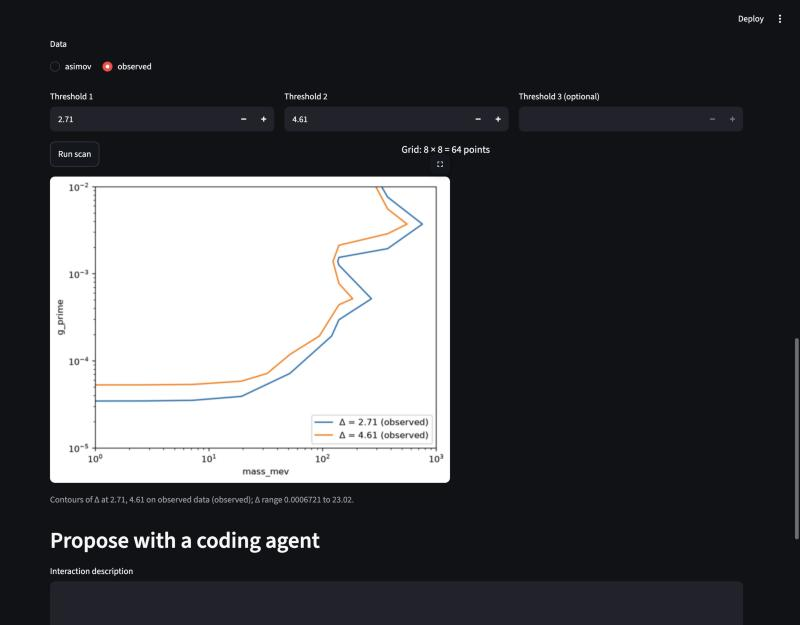
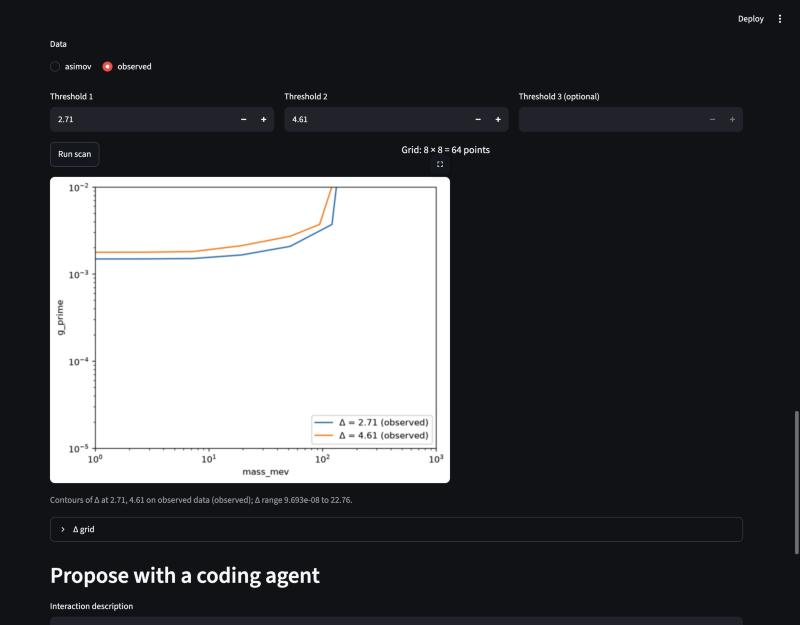
Refresh M6 evidence after review repairs
The zprime_lmu_ltau preset now uses the loop kinetic mixing, so the
spectrum, card-preset and both scan screenshots are retaken and the Δ
values restated: Δ = 0.00243 for the preset (7.5076 was for a fixed
kinetic_mixing of 1e-3), with the 10 MeV Asimov Δ = 2.71 crossing near
g' = 2e-3. The launcher section records the os.execv command line, the
non-interactive listener check on 127.0.0.1:8604 and the clean SIGINT
exit, and the test section lists the new page tests.

diff --git a/docs/evidence/issue-18/README.md b/docs/evidence/issue-18/README.md
@@ -1,89 +1,90 @@
 # M6 Streamlit page and packaging
 
-All checks below ran on 2026-10-17 against commit
-`efed7e8d1fca3d5767c68d33e858b9c66683a8e3` (tree
-`5d13430a87060ef01cbeea8408046b3621ace18c`) on branch `m6-ui`, with
-Streamlit 1.66.0. The screenshots are the built-in browser's captures of the
-live page at http://127.0.0.1:8501 (1280 x 1000 viewport, downscaled by the
-capture tool and converted from JPEG to PNG).
+The current evidence was recorded on 2026-10-17 against commit
+`590b779f1b48628c0164dbbecee4b1314182d2e1` (tree
+`e4a80a70a58a8c7f9f0ed41278c425b14cdd0f5f`) on branch `m6-ui`, with
+Streamlit 1.66.0. That commit applies the code review pass 1 repairs. The
+screenshots are the built-in browser's captures of the live page at
+http://127.0.0.1:8501 (1280 x 1000 viewport, downscaled by the capture tool
+and converted from JPEG to PNG). The panel checks used a headless server
+(`STREAMLIT_SERVER_HEADLESS=true uv run nuagent ui`), so that no browser
+tab opened on the desktop.
 
 ## Launcher
 
-`uv run nuagent ui` ran this child process, read from `ps`:
-
-```text
-.venv/bin/python -m streamlit run .../src/nuagent/ui/app.py --server.address 127.0.0.1 --browser.gatherUsageStats false --server.port 8501
-```
-
-`lsof -iTCP:8501 -sTCP:LISTEN` showed one listener, `TCP 127.0.0.1:8501`, and
-Streamlit logged `Uvicorn server started on 127.0.0.1:8501`. Stopping the
-Streamlit process with SIGTERM let `nuagent ui` exit 0.
-
-On this machine Streamlit had never run before (no `~/.streamlit/`). With
-stdin not attached to a terminal, Streamlit's first-run onboarding prompt
-("enter your email address") read end-of-file and Streamlit exited with
-status 255, so `nuagent ui` raised `CalledProcessError`. The panel checks
-below therefore ran `STREAMLIT_SERVER_HEADLESS=true uv run nuagent ui`.
-
-The follow-up commit "Skip Streamlit's first-run email prompt in nuagent ui"
-(on top of the evidence commit `8c4f46f`) adds `--server.showEmailPrompt false`.
-In Streamlit 1.66.0, `check_credentials` in `streamlit/runtime/credentials.py`
-skips the prompt when `server.headless` is true or `server.showEmailPrompt`
-is false, so the page no longer needs headless mode and Streamlit keeps its
-automatic browser opening. The final launcher command line is:
+`nuagent ui [--port N]` replaces its own process with Streamlit
+(`os.execv`), running:
 
 ```text
 python -m streamlit run <installed nuagent/ui/app.py> --server.address 127.0.0.1 --browser.gatherUsageStats false --server.showEmailPrompt false --server.port <port>
 ```
 
-Check at that commit, still without `~/.streamlit/` and without
-`STREAMLIT_SERVER_HEADLESS`: `uv run nuagent ui --port 8503 </dev/null` started,
-`ps` showed the command line above with port 8503, Streamlit logged
-`Uvicorn server started on 127.0.0.1:8503`, `curl http://127.0.0.1:8503`
-returned 200, and `lsof -iTCP:8503 -sTCP:LISTEN` showed one listener,
-`TCP 127.0.0.1:8503`. No prompt appeared and no `~/.streamlit/` was created.
-The server was then stopped with SIGTERM. Whether a browser tab opened was
-not observed. The panel checks and the installed-wheel check were not
-repeated after this flag; the flag only affects the first-run prompt.
+`--server.showEmailPrompt false` is needed because on a machine where
+Streamlit has never run (no `~/.streamlit/`, as here), Streamlit first asks
+for an email address. With stdin not a terminal it read end-of-file and
+exited 255, which made the first background start fail. In Streamlit 1.66.0,
+`check_credentials` in `streamlit/runtime/credentials.py` skips that prompt
+when `server.headless` is true or `server.showEmailPrompt` is false, so the
+flag removes the prompt and keeps Streamlit's automatic browser opening.
 
-The wheel from `uv build` contains `nuagent/ui/app.py`, `figures.py` and
-`launch.py`. Installed into a fresh virtual environment outside the
-repository, its `streamlit_command` pointed at the installed
-`site-packages/nuagent/ui/app.py`, its `nuagent ui --port 8502` (headless, as
-above) listened on `127.0.0.1:8502` only, and the page rendered all panels.
+Check at `590b779`, without `STREAMLIT_SERVER_HEADLESS` and without
+`~/.streamlit/`: `uv run nuagent ui --port 8604 </dev/null` started.
+- `ps` showed `uv run nuagent ui --port 8604` with one child, the `nuagent`
+  process now running the Streamlit command line above with port 8604.
+- Streamlit logged `Uvicorn server started on 127.0.0.1:8604`, `curl` got 200,
+  and `lsof -iTCP:8604 -sTCP:LISTEN` showed one listener,
+  `TCP 127.0.0.1:8604`. No prompt appeared and no `~/.streamlit/` was created.
+- SIGINT to `uv` and the Streamlit process (as a terminal Ctrl-C delivers to
+  both) printed `Stopping...` and exited 0 with no traceback.
+
+An earlier check at `17453f1` (before `os.execv`) showed the same listener
+on port 8503. Before `--server.showEmailPrompt` was added (`efed7e8`), an
+installed wheel in a fresh virtual environment outside the repository served
+the page from `site-packages/nuagent/ui/app.py` on `127.0.0.1:8502` only;
+that check was not repeated later.
 
 ## Panels exercised
 
-1. Experiment selector: opened and chose `coherent_csi_2017`, the only
-   registered experiment.
+1. Experiment selector: opened, `coherent_csi_2017` (the only registered
+   experiment) chosen.
 2. Model card editor: chose the `zprime_lmu_ltau` preset and pressed
-   "Apply preset to card"; the JSON text area was replaced by that template's
-   card ([card-preset.png](card-preset.png)).
+   "Apply preset to card". The JSON text area was replaced by that
+   template's card, and the kinetic_mixing input stayed empty, so the
+   template's loop value KAPPA_LMU_LTAU · g_prime applies
+   ([card-preset.png](card-preset.png)).
 3. Spectrum and Δ: "Predict and compare" drew new physics + background and
    SM + background as steps over the 12 PE bins, the summed background, and
-   the observed counts with √N error bars ([spectrum.png](spectrum.png)). It
-   showed Δ = 7.507566092489984, new-physics `alpha` 0.23609648010760576 and
-   `beta` steady_state 0.05109107728346943, prompt_neutrons
-   0.018821609061171335, SM `alpha` 0.07067927935625874, and signal total
-   55.64316965812137. These equal, digit for digit, the output of
-   `uv run nuagent compare --experiment coherent_csi_2017 --template zprime_lmu_ltau --set mass_mev=10 --set g_prime=1e-4 --set kinetic_mixing=1e-3`,
-   and the M5b evidence for the same model.
+   the observed counts with √N error bars ([spectrum.png](spectrum.png)).
+   At this point (10 MeV, g′ = 1e-4, loop kinetic mixing) the two curves
+   nearly coincide. The page showed Δ = 0.0024282648663600526, new-physics
+   `alpha` 0.07170206454158409 and `beta` steady_state 0.0015948699843009334,
+   prompt_neutrons 0.0028993722580666847, and signal total
+   133.70702102492538. These equal, digit for digit,
+   `uv run nuagent compare --experiment coherent_csi_2017 --template zprime_lmu_ltau --set mass_mev=10 --set g_prime=1e-4`.
+   (Before the repair the preset fixed kinetic_mixing at 1e-3, which gives
+   Δ = 7.507566092489984.)
 4. Scan: defaults `zprime_lmu_ltau`, mass_mev 1 to 1000 MeV and g_prime 1e-5
    to 1e-2, both log-spaced with 8 points ("Grid: 8 × 8 = 64 points"),
-   kinetic_mixing fixed at 1e-3, thresholds 2.71 and 4.61. On Asimov data the
-   scan finished in a few seconds (64 points took about 6 s in a headless
-   timing run) and drew both contours on log axes with legend entries
-   "Δ = 2.71 (expected)" and "Δ = 4.61 (expected)" and the caption "Contours
-   of Δ at 2.71, 4.61 on asimov data (expected); Δ range 8.062e-07 to 19.46"
-   ([scan-expected.png](scan-expected.png)). Switching to observed data gave
-   "(observed)" labels and Δ range 0.0006721 to 23.02
-   ([scan-observed.png](scan-observed.png)). The spectrum and Δ from step 3
-   stayed on the page while the scan ran, because each panel is a Streamlit
-   fragment.
-5. Agent panel: entered the L_mu − L_tau description used for M5b, opened the
-   backend selector (claude_code, codex), with experiments defaulting to
-   `coherent_csi_2017` ([agent-panel.png](agent-panel.png)). "Run agent" was
-   not pressed; see below.
+   kinetic_mixing empty (loop value), thresholds 2.71 and 4.61. 64 points
+   take about 6 s.
+   - Asimov data: contours on log axes with legend entries
+     "Δ = 2.71 (expected)" and "Δ = 4.61 (expected)" and the caption
+     "Contours of Δ at 2.71, 4.61 on asimov data (expected); Δ range 3.93e-14
+     to 19.45" ([scan-expected.png](scan-expected.png)). Below about 10 MeV
+     the Δ = 2.71 contour lies near g′ ≈ 1.7e-3. A separate 61-point 1D
+     Asimov scan at 10 MeV first exceeds 2.71 at g′ = 2.0e-3 (Δ 2.61 at
+     1.78e-3). With kinetic_mixing fixed at 1e-3 it does so already at
+     g′ = 5.0e-5.
+   - Observed data: "(observed)" labels, Δ range 9.693e-08 to 22.76
+     ([scan-observed.png](scan-observed.png)).
+   - The spectrum and Δ from step 3 stayed on the page while the scan ran,
+     because each panel is a Streamlit fragment. The "Δ grid" expander below
+     the caption lists the scanned values.
+5. Agent panel (screenshot from `8c4f46f`, unchanged layout): entered the
+   L_mu − L_tau description used for M5b and opened the backend selector
+   (claude_code, codex), with experiments defaulting to `coherent_csi_2017`
+   ([agent-panel.png](agent-panel.png)). "Run agent" was not pressed with a
+   live backend. Page tests run it with the fake backend.
 
 Template presets (the values the parameter inputs start with; an empty input
 keeps the template default):
@@ -92,38 +93,47 @@ keeps the template default):
 | --- | --- |
 | zprime_universal | mass_mev 30, g_nu 1e-4, g_q 1e-4 |
 | zprime_u1 | mass_mev 10, g_prime 1e-4, q_nu_e = q_nu_mu = q_nu_tau = −1, q_u = q_d = 1/3 (B − L) |
-| zprime_lmu_ltau | mass_mev 10, g_prime 1e-4, kinetic_mixing 1e-3 |
+| zprime_lmu_ltau | mass_mev 10, g_prime 1e-4; kinetic_mixing empty, so the loop value KAPPA_LMU_LTAU · g_prime |
 | scalar_universal | mass_mev 10, g_nu 1e-5, g_q 1e-5 |
 | contact_nsi | eps_u_ee 0.1, eps_d_ee 0.1 |
 
-The spectrum screenshot was taken a few minutes before the commit, from a
-working tree that differed from it only in the contour legend position
-(`loc="lower right"`), which does not affect the spectrum. The scan and agent
-screenshots were taken from the commit itself.
+The scan panel's fixed-parameter inputs start from the same presets.
 
 ## Tests
 
-- `uv run pytest tests/test_ui.py`: 6 passed. They check the launcher
-  arguments and that the app file exists, run `nuagent ui --help` through the
-  installed executable, and drive the page headlessly with
-  `streamlit.testing.v1.AppTest`: applying the `zprime_lmu_ltau` preset
-  rewrites the card to `template_card(...).model_dump_json(indent=2)`, the Δ
-  shown equals the value computed directly with `profiled` (relative 1e-9),
-  and a 2 x 2 scan runs on Asimov and observed data with captions labeled
-  expected and observed. A direct test of the contour figure checks the
-  legend labels and log axes.
-- `uv run pytest`: 328 passed (322 before this milestone plus the 6 new
-  tests). The only warning is the frozen legacy package's `pkg_resources`
-  deprecation warning.
-- `uv build --out-dir <scratch>`: built the sdist and wheel; the wheel lists
-  `nuagent/ui/app.py`.
+- `uv run pytest tests/test_ui.py`: 9 passed.
+  - The launcher test checks the exact flag/value pairs and that the app file
+    exists. `nuagent ui --help` runs through the installed executable.
+  - The preset test checks that applying `zprime_lmu_ltau` writes
+    `template_card(...).model_dump_json(indent=2)` into the card. It also
+    checks that the Δ shown equals `profiled` computed directly
+    (relative 1e-9).
+  - For a 2 x 2 scan on Asimov and on observed data, the tests check the
+    caption labels (expected, observed). They also check that the shown Δ
+    grid equals `asimov.scan` (rtol 1e-9).
+  - Another scan test checks that kinetic_mixing starts empty. Set to 1e-3,
+    the shown grid equals `asimov.scan` with that value. Cleared again, it
+    equals `asimov.scan` without kinetic_mixing (the loop value), and the two
+    grids differ.
+  - The agent panel runs with the fake backend from `tests/test_agent.py`, in
+    a validating mode and in a mode that fails after the correction. Each
+    time the test checks the success or error message and that the report
+    file's text is rendered. Both still show after a rerun with an edited
+    description.
+  - The contour figure's legend labels and log axes are checked directly.
+- `uv run pytest`: 331 passed (322 before this milestone plus 9). The only
+  warning is the frozen legacy package's `pkg_resources` deprecation warning.
+- `uv build --out-dir <scratch>`: the wheel lists `nuagent/ui/app.py`,
+  `figures.py` and `launch.py`, and its metadata has
+  `Requires-Dist: streamlit>=1.66`. `uv lock` changed only the streamlit
+  requirement line in `uv.lock`; the locked version stays 1.66.0.
 - `uv run nuagent ui --help`: exits 0 and lists `--port`.
 
 ## Not verified
 
 - No live agent run from the page: it costs a paid backend call and minutes.
-  The panel calls `run_result` with the selected backend, exactly as tested
-  offline for `propose`; the live propose runs are left for after the merge.
-- Streamlit's automatic browser opening was not observed: the panel checks
-  ran headless, and the non-headless 8503 check only verified the listener.
+  The live propose runs are left for after the merge.
+- Streamlit's automatic browser opening was not observed. The panel checks ran
+  headless, and the non-headless 8604 check only verified the listener and
+  the SIGINT exit.
 - Fresh-clone checking is left for after the merge.
